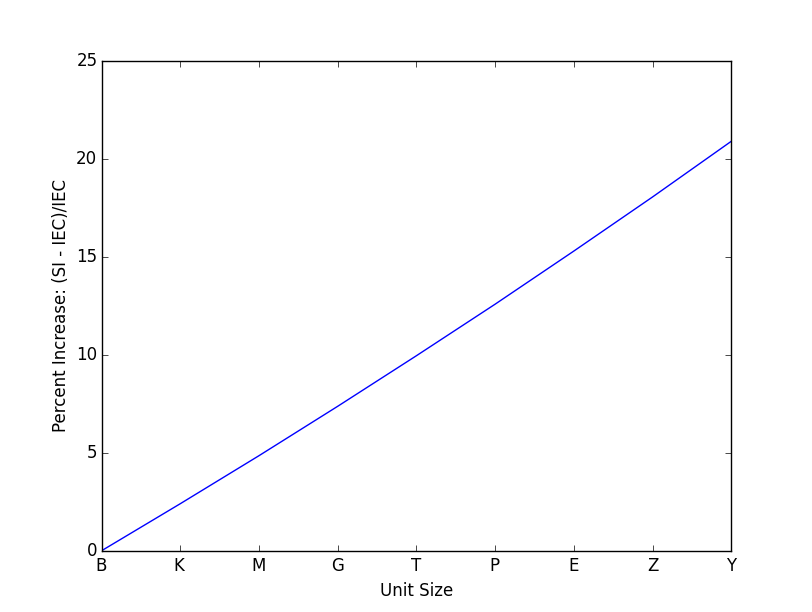
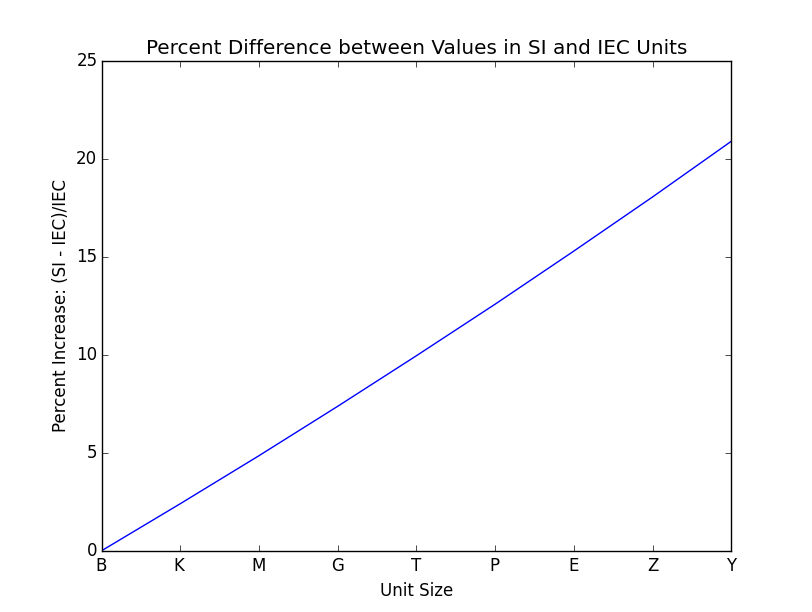
Minor edits.

Changed region(s): [[0.1847, 0.0621, 0.8621, 0.0931]]

diff --git a/graph.py b/graph.py
@@ -21,6 +21,7 @@ def main():
     percent_values = \
        [Decimal(x.numerator)/Decimal(x.denominator) for x in rationals]
 
+    plt.title('Percent Difference between Values in SI and IEC Units')
     plt.xticks(exponents, ['B', 'K', 'M', 'G', 'T', 'P', 'E', 'Z', 'Y'])
     plt.ylabel("Percent Increase: (SI - IEC)/IEC")
     plt.xlabel("Unit Size")
